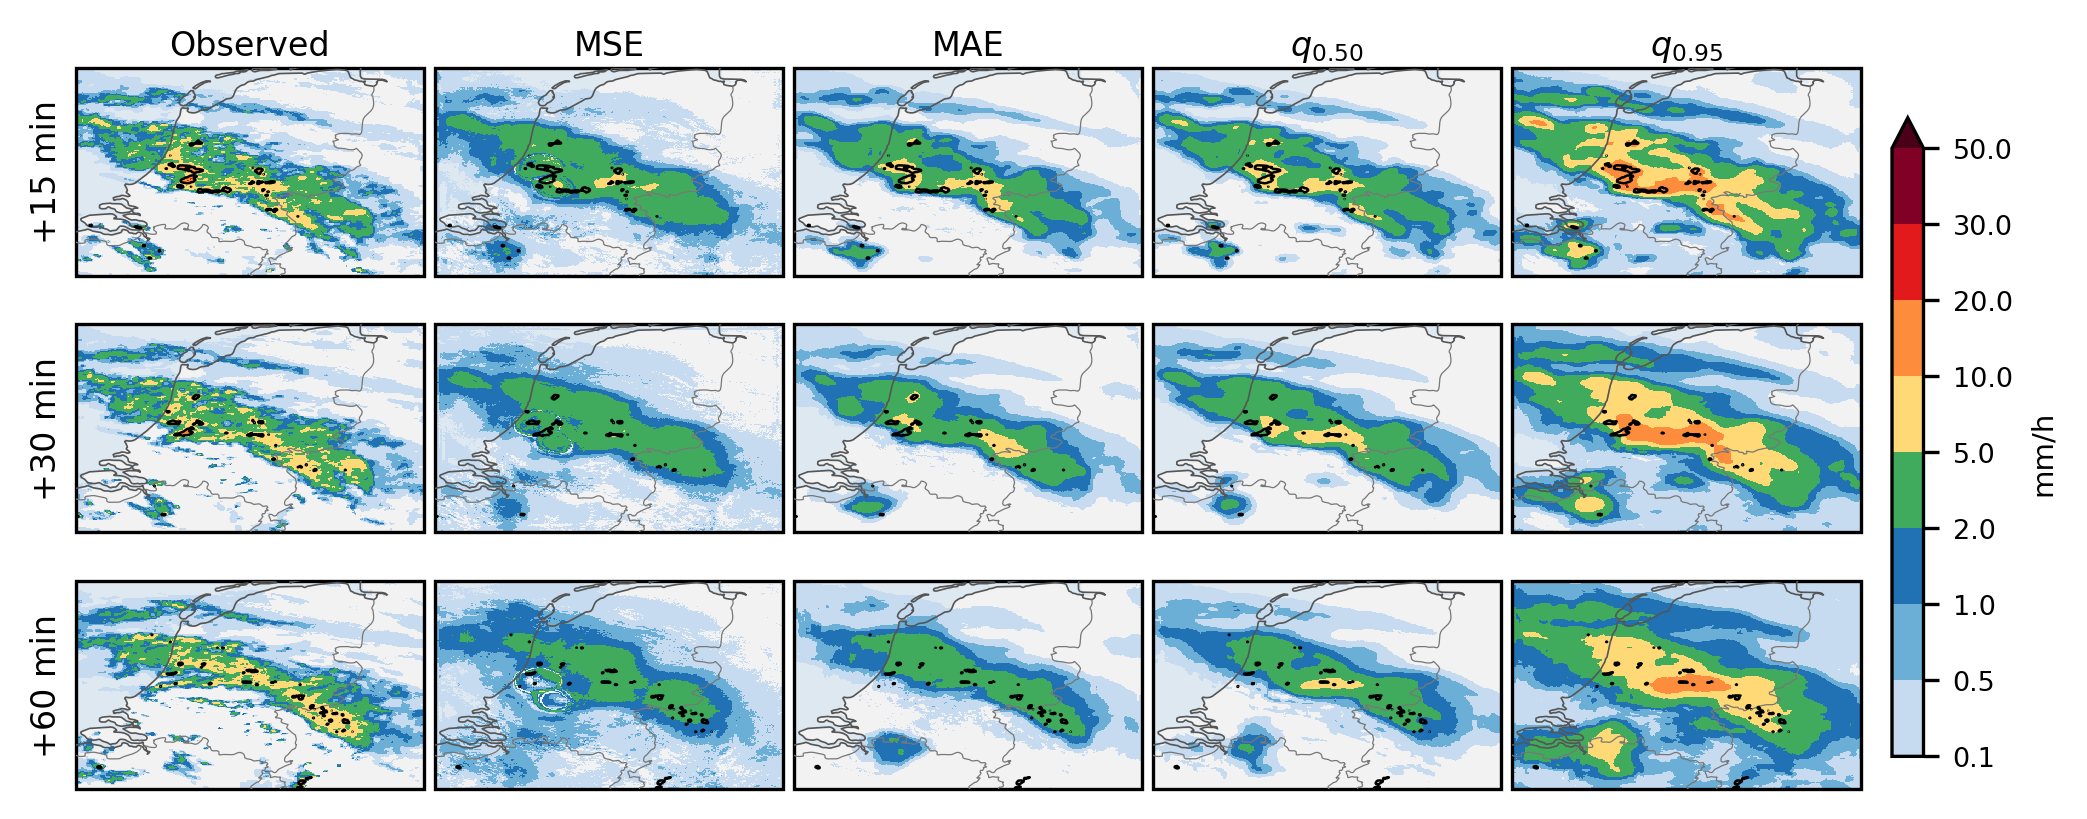
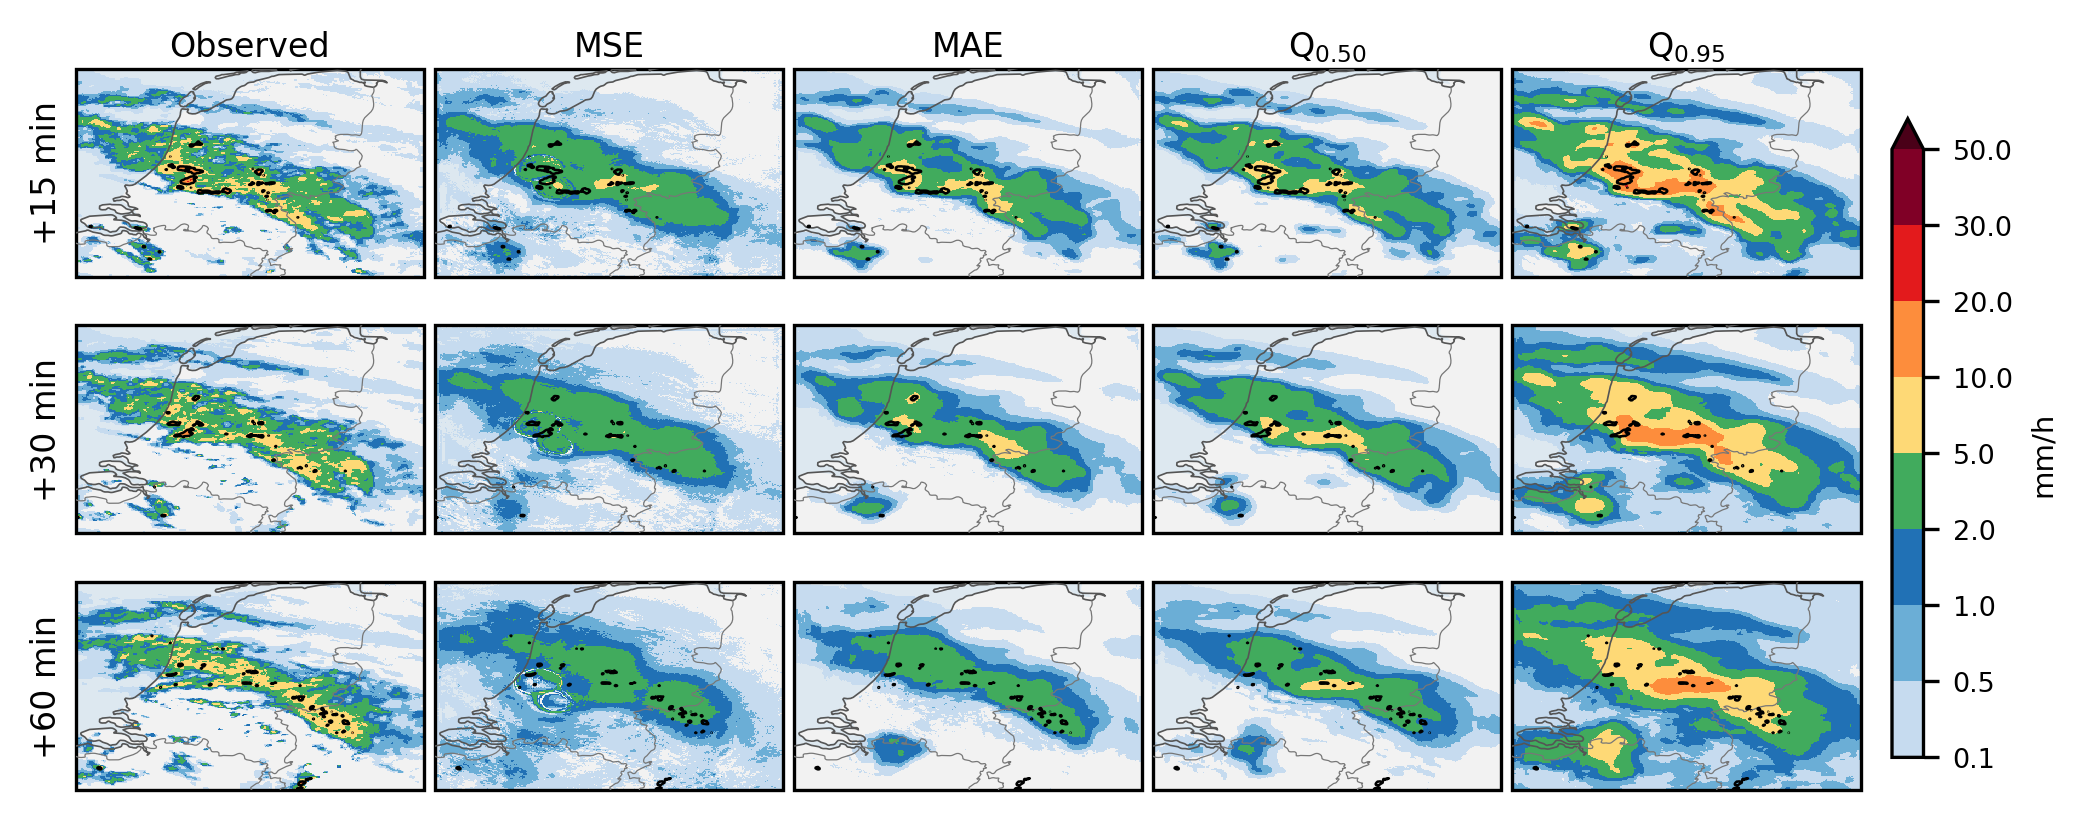
Use upright Q labels for quantile outputs to match paper notation

diff --git a/qualitative_figure.py b/qualitative_figure.py
@@ -337,7 +337,7 @@ def render_sample(ds, models, sample, args, out_dir, quick=False):
     fields = {"Observed": gt}
     fields.update({n: preds[n][0] for n in names})
     labels = {"Observed": "Observed", "MSE": "MSE", "MAE": "MAE",
-              "q0.50": r"$q_{0.50}$", "q0.90": r"$q_{0.90}$", "q0.95": r"$q_{0.95}$"}
+              "q0.50": r"Q$_{0.50}$", "q0.90": r"Q$_{0.90}$", "q0.95": r"Q$_{0.95}$"}
 
     H, W = gt.shape[-2:]
     if args.crop == "auto":
